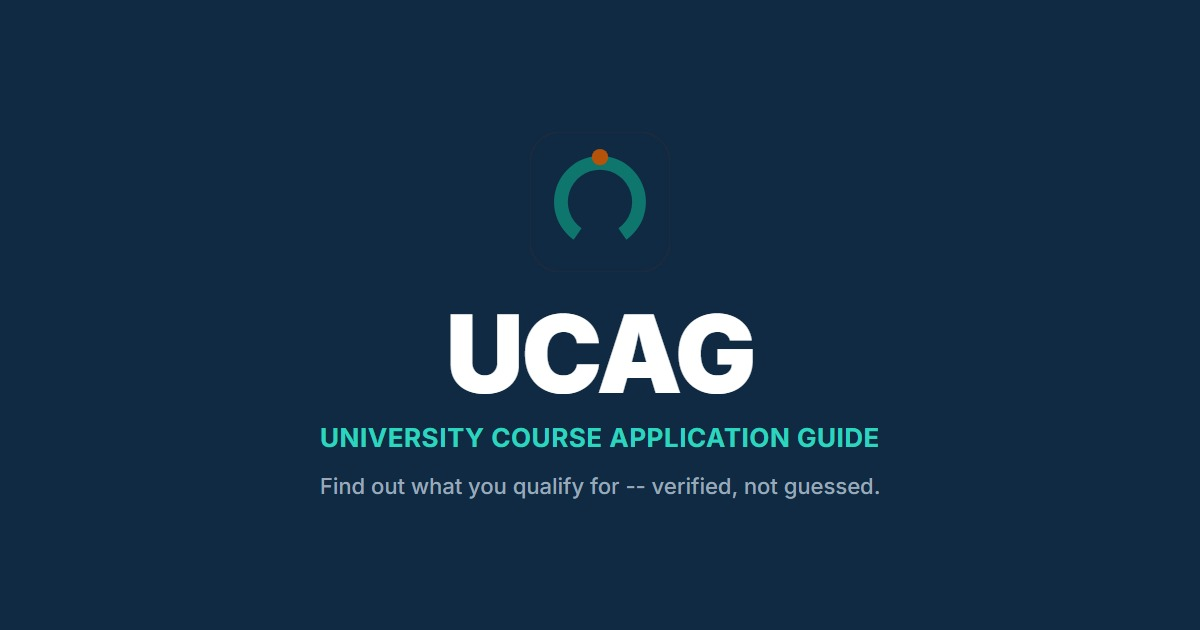
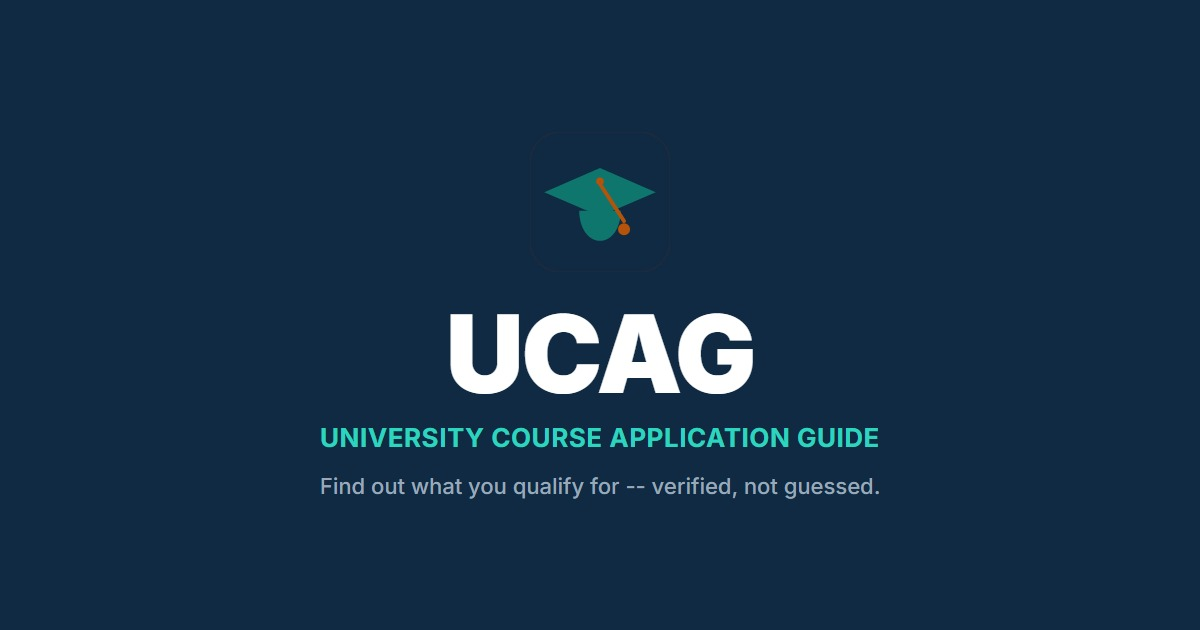
Redesign UCAG's logomark again: flat geometric mortarboard, per direct feedback
The abstract progress-ring mark from the previous redesign didn't read
as "university" -- direct feedback was that it didn't say anything
about what the app actually is. Replaced it with a flat, geometric
graduation-cap (mortarboard) silhouette instead: unambiguous about the
subject matter, while staying deliberately simple (flat fills, no 3D
bevels, no pillars, no starburst) so it doesn't repeat the original
logo's generic-clip-art problem.

Same design discipline as the ring mark it replaces: built in Figma
(https://www.figma.com/design/TFzgEBmTyiblRmfCEJ9imC, second frame),
using only the app's existing brand tokens (brand-navy/brand-teal/
mark-gold, no new palette), and still genuinely interactive rather than
static -- the tassel's weighted end breathes gently at rest and the
whole cap tips on hover/focus, which is motion motivated by the object
itself (a real tassel swings) rather than decoration for its own sake.

Propagated to every asset the mark appears in: components/Logo.tsx,
app/icon.svg, app/favicon.ico (regenerated multi-resolution), and
public/icon-192.png, icon-512.png, apple-touch-icon.png,
icon-maskable-512.png, og-image.jpg -- same Playwright-based local
render pipeline as the previous pass, with the maskable variant scaled
in slightly further (the wider diamond silhouette needs more margin
than the ring mark did to stay inside the maskable safe zone).

Verified: typecheck, lint, full Vitest suite (336 passed), production
[…]

Changed region(s): [[0.4625, 0.2413, 0.555, 0.3921]]

diff --git a/components/Logo.tsx b/components/Logo.tsx
@@ -1,19 +1,19 @@
 /**
- * UCAG's logomark: an open progress ring -- shaped like a "U" -- with a
- * summit marker perched at its top. Designed in Figma
- * (https://www.figma.com/design/TFzgEBmTyiblRmfCEJ9imC) against the
- * app's real semantic tokens (brand-navy, brand-teal, mark-gold -- no
- * new palette introduced), replacing a literal graduation-cap-and-
- * pillars mark that read as generic education clip art. The ring
- * deliberately echoes CircledMark's circular score-marker motif already
- * used throughout the results UI: the logo previews the exact visual
- * language a learner sees once they get their APS score circled, rather
- * than an unrelated crest.
+ * UCAG's logomark: a flat, geometric mortarboard (graduation cap) --
+ * designed in Figma (https://www.figma.com/design/TFzgEBmTyiblRmfCEJ9imC)
+ * against the app's real semantic tokens (brand-navy, brand-teal,
+ * mark-gold -- no new palette introduced). Replaces an earlier abstract
+ * progress-ring mark that, per direct feedback, didn't read as
+ * "university" at a glance -- a mortarboard says it immediately, kept
+ * flat and geometric (no 3D bevels, no pillars, no starburst) so it
+ * doesn't repeat the original logo's generic-clip-art problem either.
  *
- * Interactive by design (not just static): the summit dot breathes
- * gently at rest, and the whole mark tilts on hover/focus. Pure CSS
- * (group-hover + a globals.css keyframe), so this stays a server
- * component -- no client-side JS needed for the motion, and
+ * Interactive by design (not just static): the tassel's weighted end
+ * breathes gently at rest, and the whole cap tips slightly on
+ * hover/focus -- a real mortarboard's tassel swings, so this motion is
+ * motivated by the object itself, not decoration for its own sake. Pure
+ * CSS (group-hover + a globals.css keyframe), so this stays a server
+ * component -- no client-side JS needed for the motion -- and
  * prefers-reduced-motion is already handled globally.
  *
  * `size` controls the mark only; the wordmark next to it is plain text
@@ -41,17 +41,17 @@ export function Logo({ size = 32, showWordmark = true, wordmarkClassName = "", c
       >
         <rect width="256" height="256" rx="56" fill="#102A43" />
         <g
-          className="origin-center transition-transform duration-300 ease-out group-hover:rotate-6 group-focus-visible:rotate-6"
+          className="origin-center transition-transform duration-300 ease-out group-hover:-rotate-6 group-focus-visible:-rotate-6"
           style={{ transformBox: "fill-box" }}
         >
-          <path
-            d="M79.8196 196.809C65.186 186.562 54.2002 171.917 48.4579 155.001C42.7156 138.085 42.5159 119.778 47.8878 102.741C53.2597 85.7032 63.9234 70.822 78.33 60.2587C92.7366 49.6953 110.136 44 128 44C145.864 44 163.263 49.6953 177.67 60.2587C192.077 70.822 202.74 85.7032 208.112 102.741C213.484 119.778 213.284 138.085 207.542 155.001C201.8 171.917 190.814 186.562 176.18 196.809L161.726 176.166C171.97 168.994 179.66 158.742 183.679 146.901C187.699 135.059 187.839 122.245 184.079 110.318C180.318 98.3922 172.854 87.9754 162.769 80.5811C152.684 73.1867 140.505 69.2 128 69.2C115.495 69.2 103.316 73.1867 93.231 80.5811C83.1464 87.9754 75.6818 98.3922 71.9214 110.318C68.1611 122.245 68.3009 135.059 72.3205 146.901C76.3401 158.742 84.0302 168.994 94.2737 176.166L79.8196 196.809Z"
-            fill="#0F766E"
-          />
+          <path d="M26 110L128 66L230 110L128 154L26 110Z" fill="#0F766E" />
+          <path d="M90 144H166C166 175 150 199 128 199C106 199 90 175 90 144Z" fill="#0F766E" />
+          <circle cx="128" cy="90" r="7" fill="#B45309" />
+          <path d="M128 95L172 163" stroke="#B45309" strokeWidth="7" strokeLinecap="round" />
           <circle
-            cx="128"
-            cy="46"
-            r="15"
+            cx="172"
+            cy="178"
+            r="11"
             fill="#B45309"
             className="animate-logo-pulse origin-center"
             style={{ transformBox: "fill-box" }}
